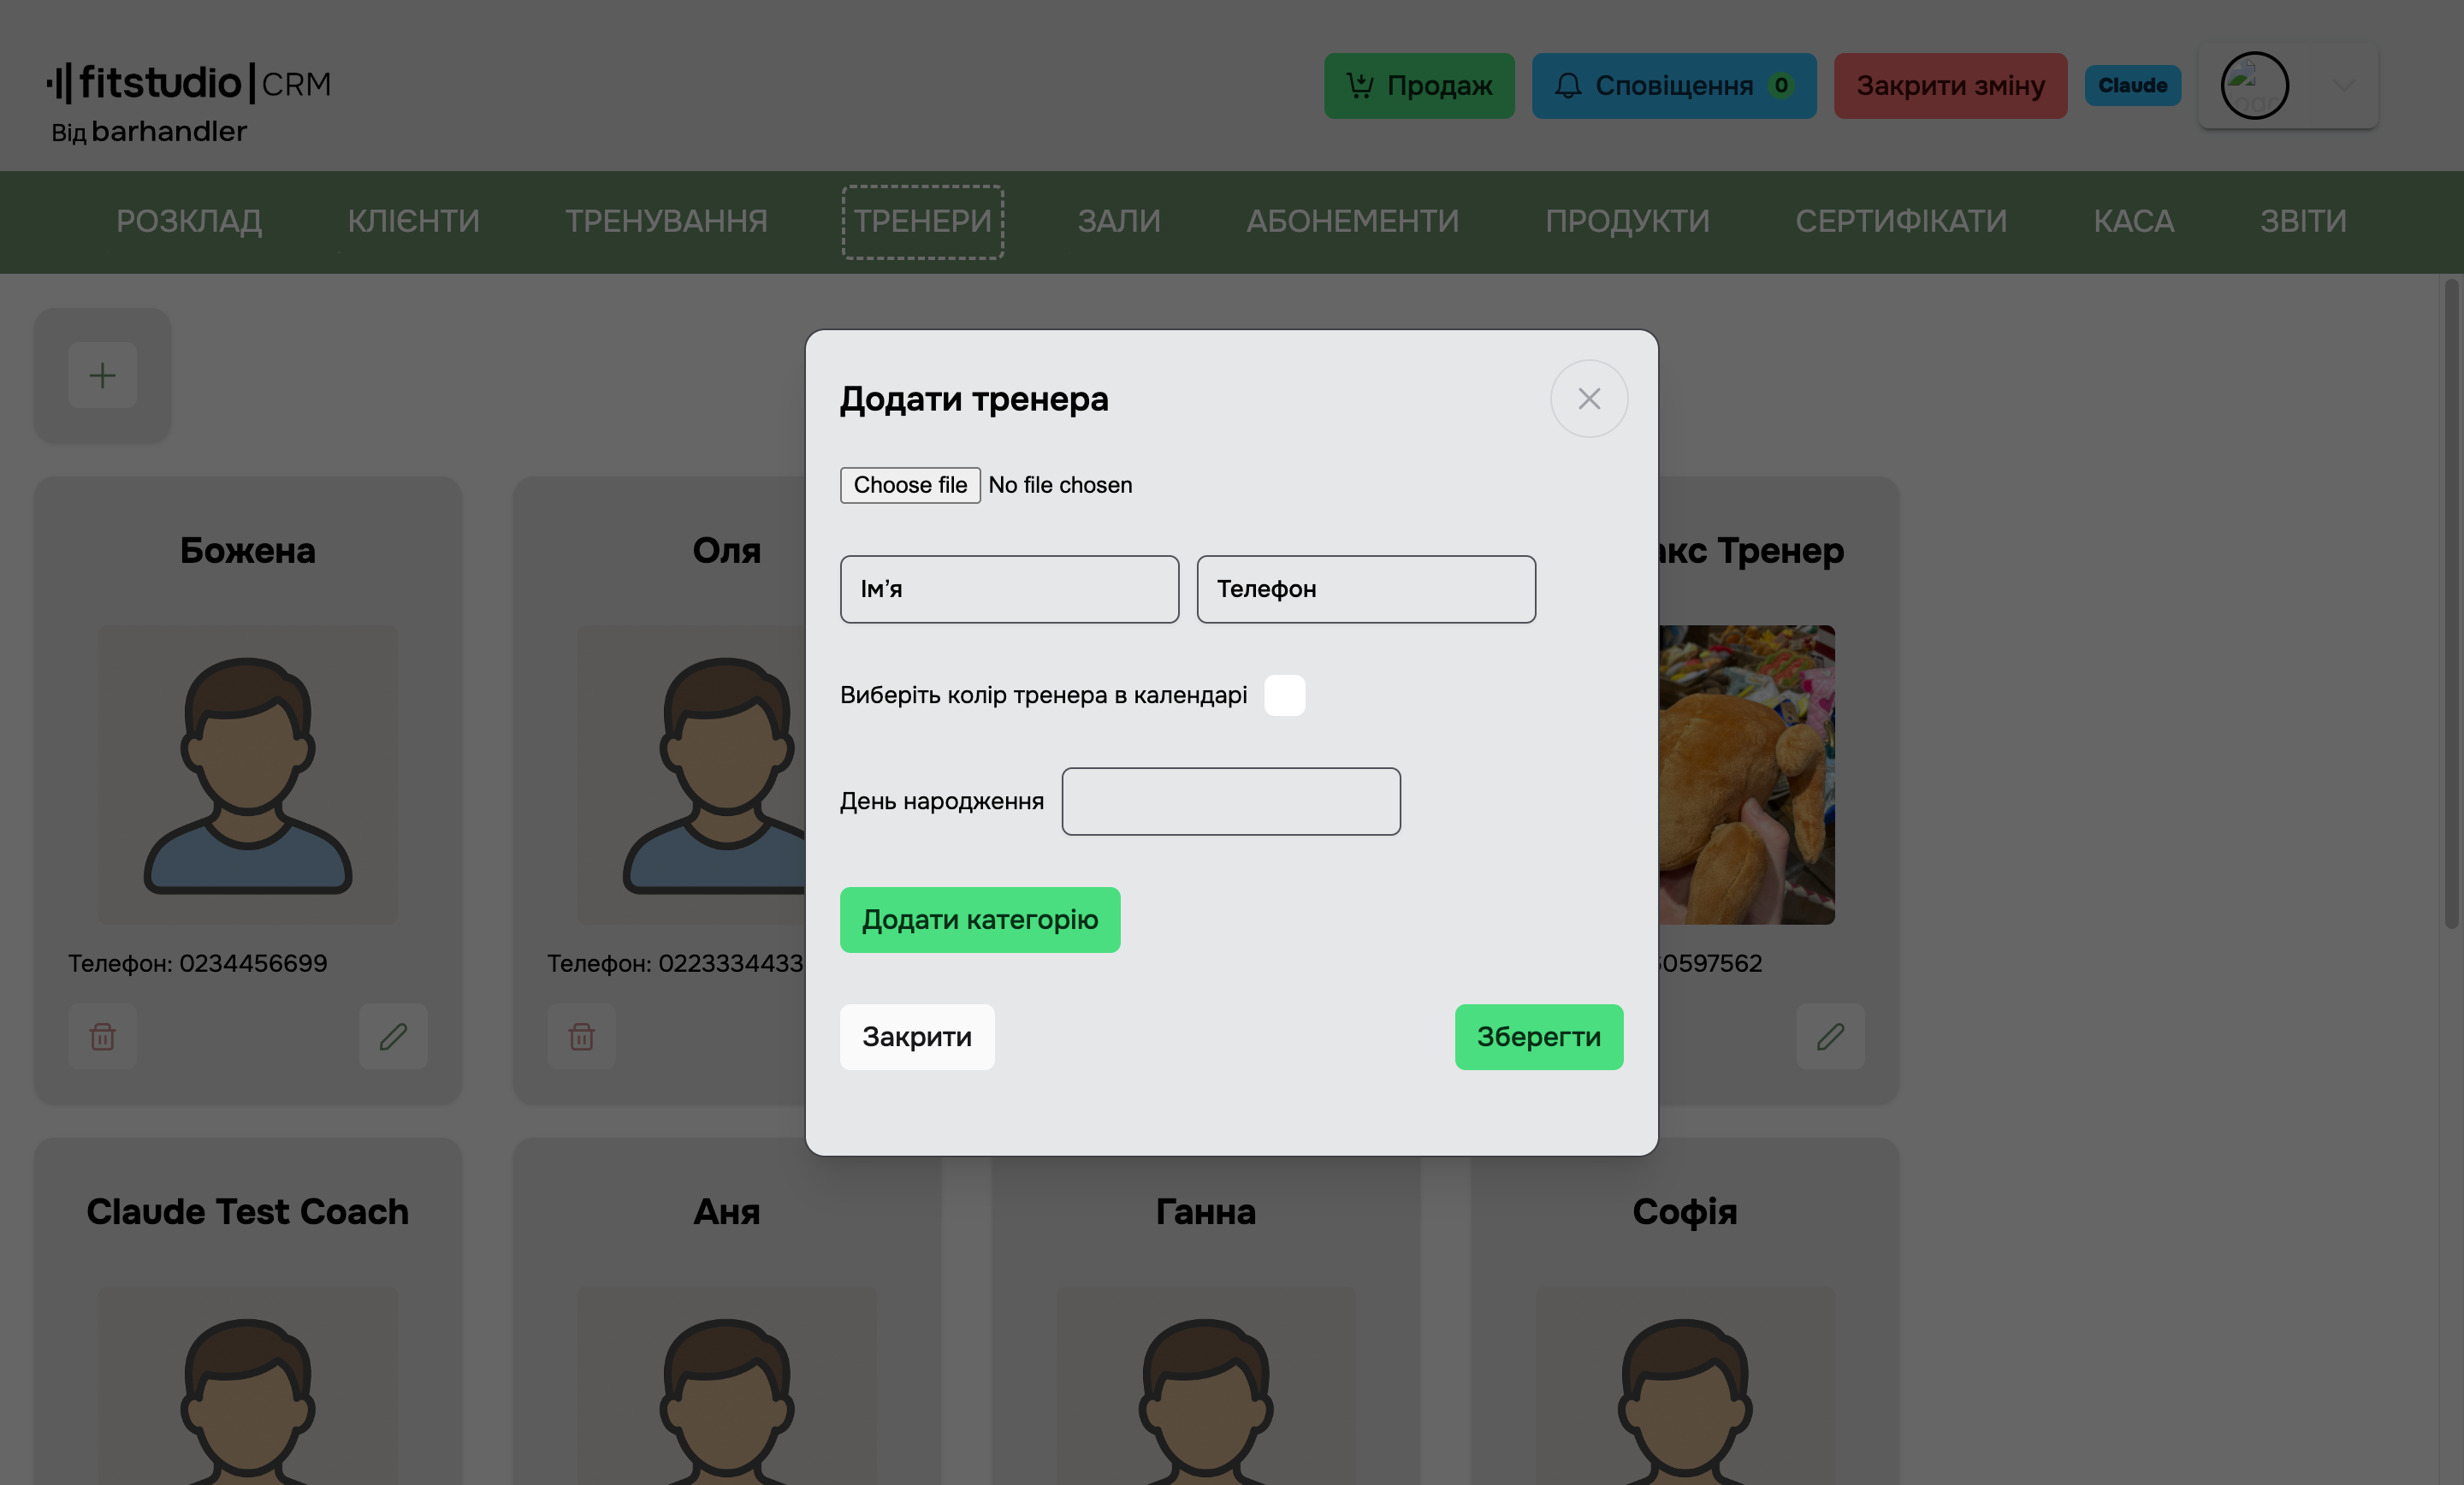
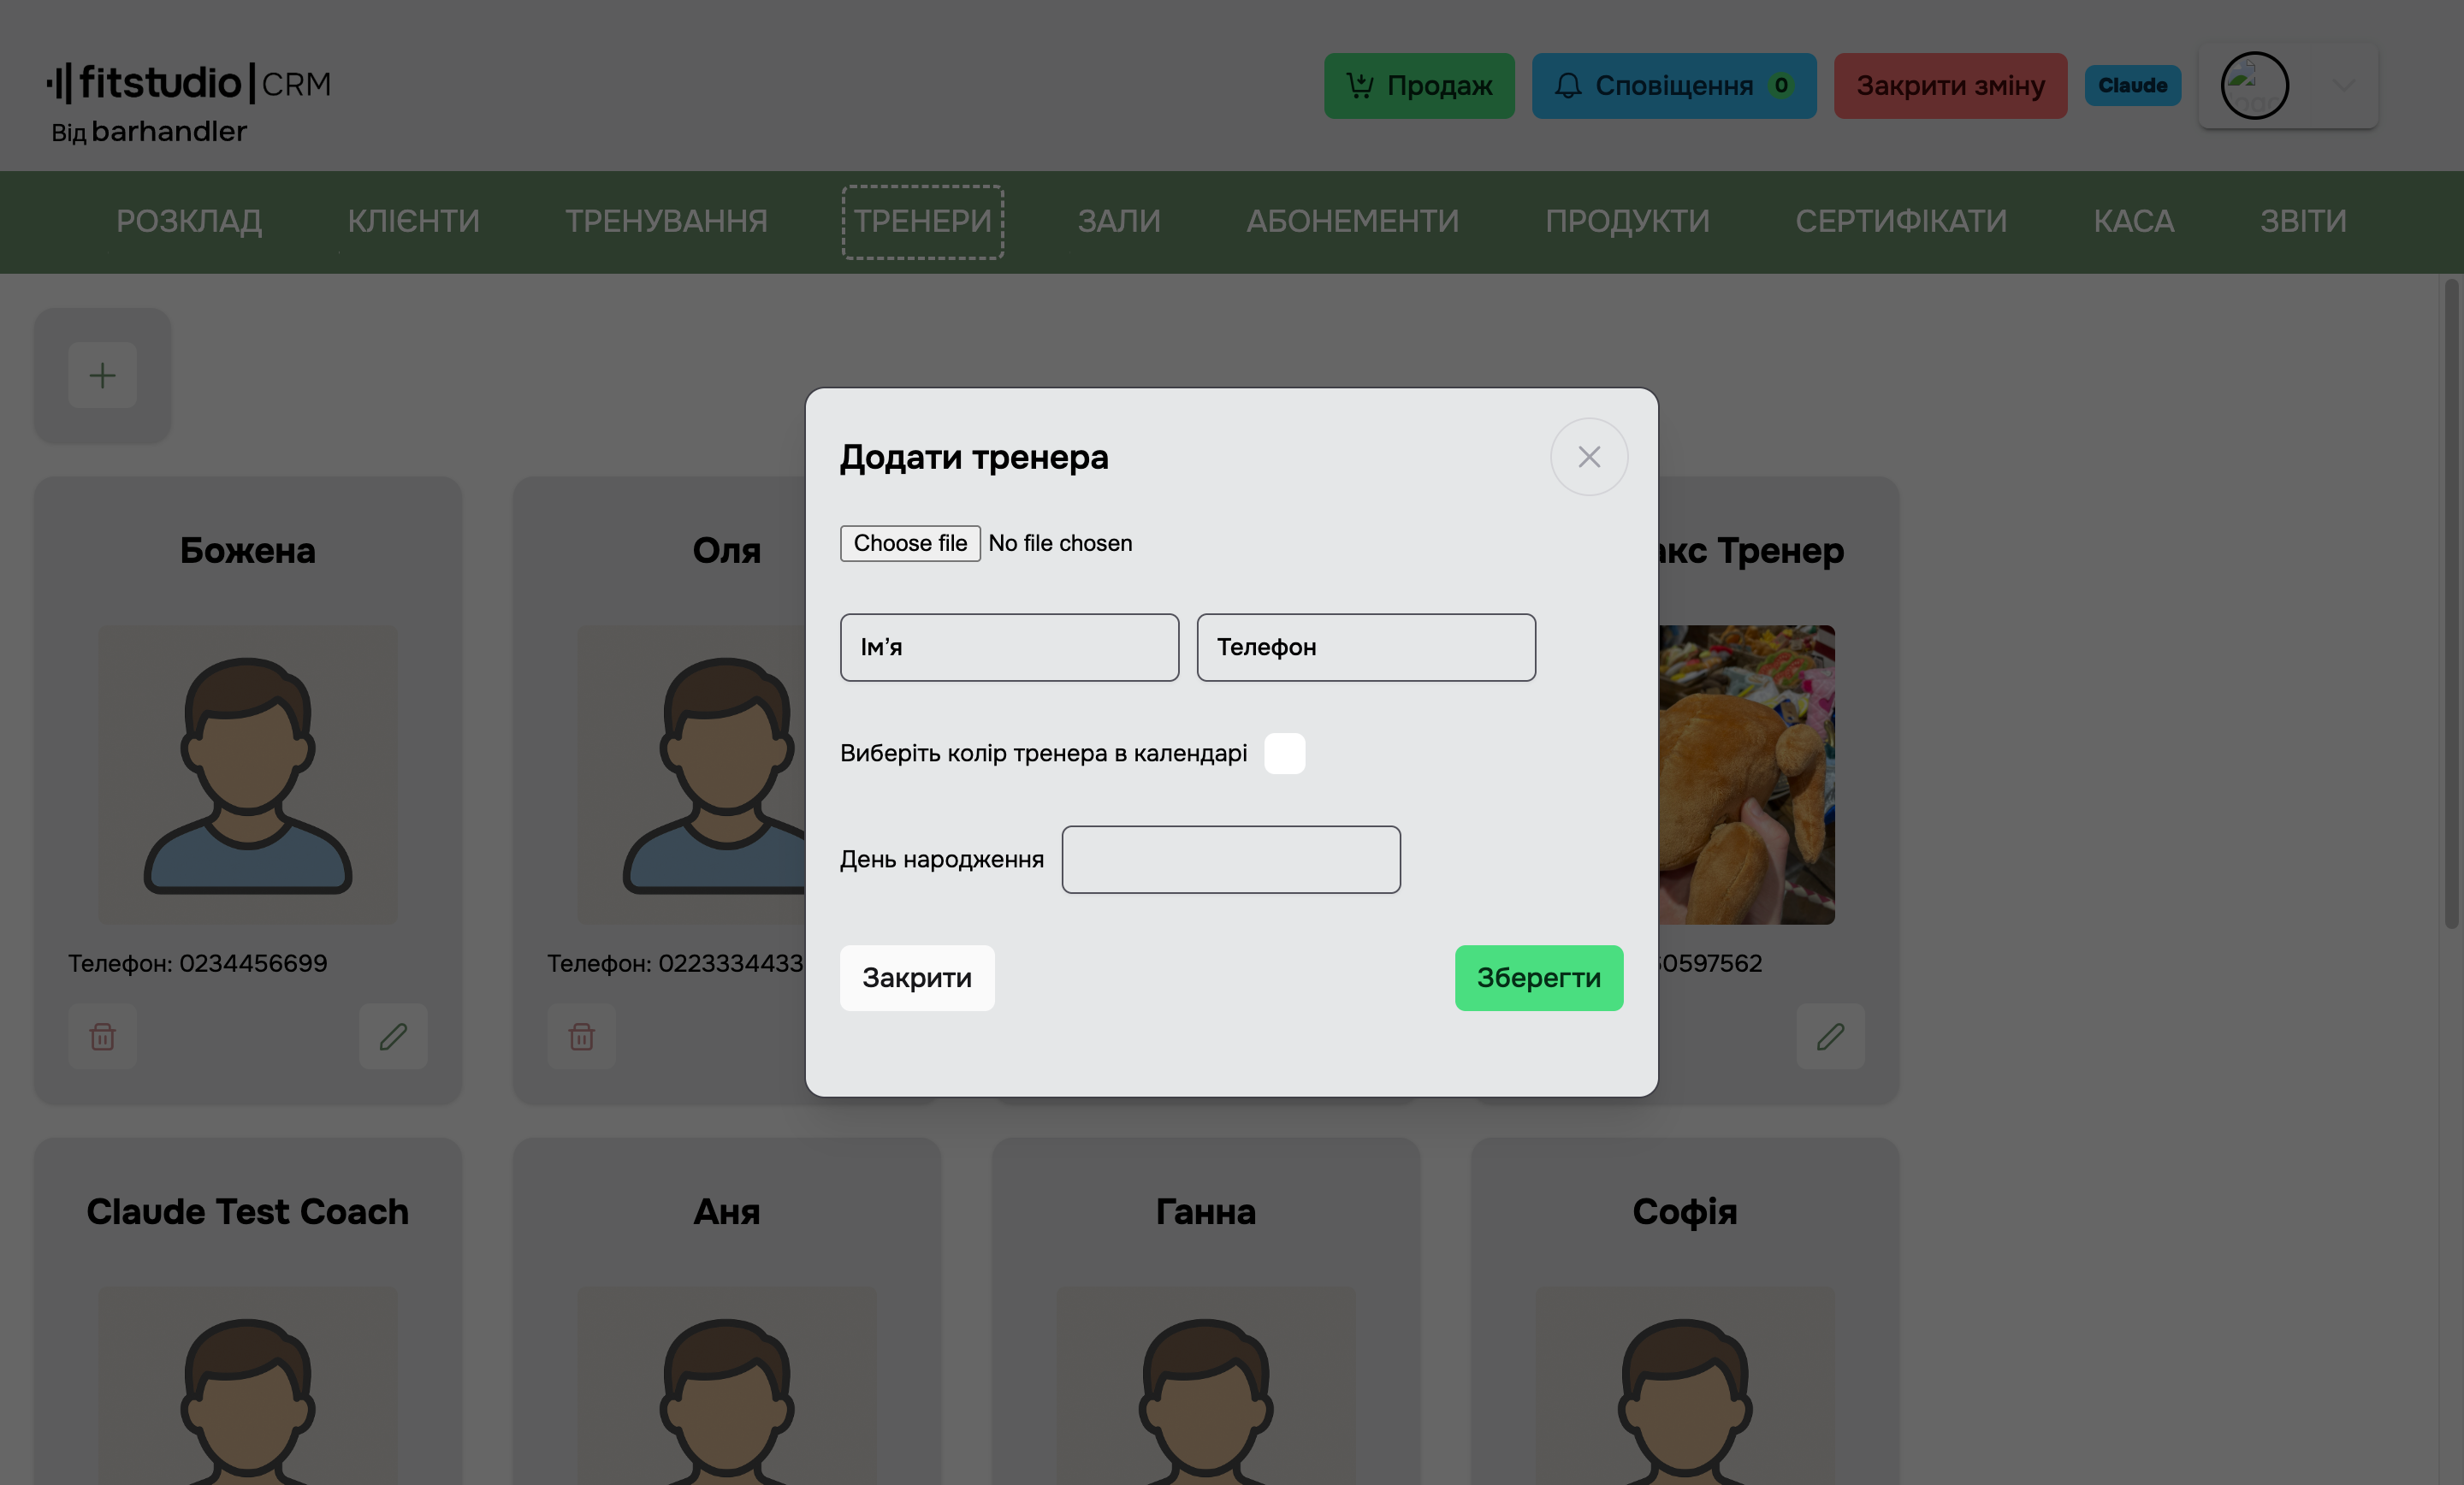
docs(FC-336): align coach/category docs with current code
- coaches.md: drop "Додати категорію" + per-coach rate section; coach
  card no longer has any salary fields. Refresh coach-2 modal screenshot
  (clean modal without category UI). Remove coaches-3.png (obsolete).
- reports.md: Zarplaty tab — remove false claim that coaches have
  individual rates; correct Експорт block (only TXT export of coach
  salaries — no CSV-for-all-types, no PDF for clients).
- examples.md (5.1, 5.2): rewrite to reflect category-only rate model
  with explicit PerPerson / PerWorkout choice and required category
  assignment on workout.
- processing.md §6.3: rewrite coach salary calc — derived solely from
  workout category, no per-coach overrides; clarify PerPerson uses
  visited + unvisited-debt clients, with min/capacity guards.
- setup.md §4.8: redirect to Mobile app tab (Telegram-bot tab no
  longer exists in admin panel).
- login.md: list all 7 admin panel tabs via anchors into settings.md.
- telegram-bot.md: stub page that redirects to Mobile app section
  (kept to avoid breaking old bookmarks).

Changed region(s): [[0.3125, 0.2177, 0.6875, 0.7776]]

diff --git a/login/telegram-bot.md b/login/telegram-bot.md
@@ -2,28 +2,12 @@
 
 [Повернутися на головну](/)
 
-# 1.3.2.4 Телеграм-бот
+# Телеграм-бот / Мобільний додаток
 
-> Вкладка **Телеграм-бот** містить:
+> ⚠️ **Сторінку залишено для зворотної сумісності посилань.**  
+> Окремої вкладки **Телеграм-бот** в Адмін-панелі більше **немає** — функціонал клієнтського додатку (QR-код для встановлення, лічильники зареєстрованих клієнтів/тренерів, масова розсилка повідомлень) переїхав у вкладку **Мобільний додаток**.
 
-![](../_media/send-telegram-messages.png ':no-zoom')
-
-- **Посилання на Телеграм-бот**
-- **QR-код для переходу у Телеграм-бот**
-- **Кнопка "Завантажити QR-код"** — при натисканні генерується PDF-документ із QR-кодом для швидкого переходу у бот
-- **Кнопка "Завантажити баннер"** — при натисканні генерується PDF-документ із QR-кодом для швидкого переходу у бот у вигляді баннера
-- **Блок Зареєстровано клієнтів:** - Кіль-сть клієнтів які зареєструвалису у Телеграм боті
-- **Блок Зареєстровано тренерів:** - Кіль-сть тренерів які зареєструвалису у Телеграм боті
-- **Надсилання повідомлення клієнтам**  
-  - Текстове поле приймає будь-які символи  
-  - Кнопка **Надіслати** активується, якщо введено хоча б 1 символ  
-  - Усі клієнти, зареєстровані у боті, отримають повідомлення
-- **Надсилання зображення клієнтам**  
-  - Кнопка **Надіслати** активна, якщо вибрано зображення
-- **Видалення надісланих повідомлень**  
-  - У списку виберіть повідомлення за датою й часом, яке потрібно видалити
-
-![](../_media/remove-telegram-messages.png ':no-zoom')
+➡️ Актуальна документація: [Налаштування → Мобільний додаток](/login/settings#мобільний-додаток).
 
 ---
 

diff --git a/pages/processing.md b/pages/processing.md
@@ -22,17 +22,17 @@
 
 ## 6.3 Підрахунок зарплат тренерів
 
-> Система вибирає всі тренування тренера за поточний період, сортує їх за категоріями та проводить розрахунок залежно від типу ставки.
+> Система вибирає всі тренування тренера за поточний період, групує їх **за категоріями тренувань** (категорія, яку було призначено на самому тренуванні) і проводить розрахунок залежно від типу ставки **цієї категорії**.
 
-- **Ставка "Кількість людей на тренуванні"**  
-  Підраховується кількість клієнтів, які фактично відвідали всі тренування у категорії.  
-  Далі ця кількість множиться на ставку категорії, вказану на сторінці категорії.  
-  Якщо у тренера задана кастомна ставка, саме вона використовується для розрахунку.
+> ℹ️ **Усі параметри розрахунку (тип ставки + базова ставка) визначаються виключно на категорії тренування** ([Звіти → Категорії](/menu/reports#_383-Категорії)). Жодних індивідуальних ставок на тренера або на конкретне тренування немає.
 
-- **Ставка "Кількість тренувань"**  
-  Підраховується кількість проведених тренувань у категорії.  
-  Далі ця кількість множиться на ставку категорії.  
-  Якщо у тренера задана кастомна ставка, вона використовується замість глобальної.
+- **Тип ставки `PerPerson` ("За людину")**
+  Для кожного тренування у категорії підраховується кількість клієнтів, які фактично відвідали (статус `Visited`) + клієнтів зі статусом `Unvisited`, з яких списано тренування з абонементу (відмінено пізно). Якщо менше за **Мінімальну кількість клієнтів** ([Налаштування → Функції](/login/settings#функції)) — використовується мінімум. Якщо більше за `workoutCapacity` і увімкнено відповідний тогл — обмежується capacity. Сума по тренуваннях × `baseRate` категорії = зарплата за цю категорію.
+
+- **Тип ставки `PerWorkout` ("За тренування")**
+  Підраховується кількість **проведених** тренувань у категорії (тренування з хоча б одним клієнтом у статусі `Visited`). Кількість тренувань × `baseRate` категорії = зарплата за цю категорію.
+
+> Сумарно зарплата = сума по всіх категоріях, у яких у тренера були тренування за період.
 
 ---
 

diff --git a/menu/reports.md b/menu/reports.md
@@ -38,11 +38,6 @@
   - **Потребує уточнення** (FC-110) — список клієнтів у яких **не заповнено поле телефону**. Тільки телефон — інші поля (email, дата народження) у фільтрі не враховуються. Зручно для контролю якості бази, бо без телефону клієнт не отримуватиме Telegram-нагадування і пуш-сповіщення з мобільного додатку.
 - **Графік** — кнопка переключення між таблицею і візуалізацією (де доречно).
 
-**Експорт:**
-
-- **CSV** — для всіх типів звіту.
-- **PDF** — для типу **Клієнти**.
-
 ---
 
 ## 3.8.2 Зміни
@@ -113,13 +108,14 @@
 **Колонки:**
 
 - **Тренер** — імʼя тренера.
-- **Тип ставки** — вказаний у профілі тренера (категорія може перевизначити це для конкретного тренування).
-- **Динамічні колонки** — система групує всі тренування періоду за **категоріями**, і кожна категорія стає окремою колонкою. Значення в колонці залежить від типу ставки категорії:
-  - **За людину** — `сумарна кількість клієнтів × baseRate`.
-  - **За тренування** — `кількість проведених тренувань × baseRate`.
+- **Динамічні колонки** — система групує всі тренування періоду за **категоріями**, і кожна категорія стає окремою колонкою. Значення і тип розрахунку беруться **з категорії тренування** ([Категорії](#_383-Категорії)):
+  - **За людину** (`PerPerson`) — `сумарна кількість клієнтів × baseRate`.
+  - **За тренування** (`PerWorkout`) — `кількість проведених тренувань × baseRate`.
 - **Всього** — сума всіх категорій для тренера.
 
 > Внизу таблиці — рядок з **загальною сумою по всіх тренерах**.
+
+**Експорт:** кнопка експорту зарплат у **TXT-файл** (текстовий звіт з розбивкою по тренерах та категоріях). Інших форматів експорту немає.
 
 > ℹ️ Розрахунок враховує налаштування **"Враховувати максимальну к-сть людей при підрахунку зарплат"** ([3.8.4.1](#_3841-Налаштування-зарплат)) — якщо клієнтів на тренуванні більше за `workoutCapacity`, зарахується тільки `workoutCapacity`.
 

diff --git a/pages/examples.md b/pages/examples.md
@@ -10,11 +10,13 @@
 
 **Алгоритм дій:**
 
-- Створіть категорію для такого типу тренувань, де вкажіть ставку за **ОДНУ** людину.  
-  ```Наприклад: якщо від персонального тренування для 1 клієнта тренер отримує X грн, а від тренування для 2 клієнтів — Y грн (за двох), то в системі FitStudio CRM ставка у категорії має бути Y/2. Система множить ставку на кількість людей.```
+- Створіть [категорію](/menu/reports#_383-Категорії) для такого типу тренувань. Оберіть **Тип ставки = За людину** (`PerPerson`) і вкажіть **базову ставку** — суму, яку тренер отримує **за одного клієнта**.
+  ```Наприклад: якщо від персонального тренування для 1 клієнта тренер отримує X грн, а від тренування для 2 клієнтів — Y грн (за двох), то базова ставка категорії = Y/2. Система помножить ставку на фактичну кількість клієнтів на тренуванні.```
 - Додайте абонемент, яким буде оплачуватися тренування (разовий або абонемент), тип абонементу має бути **Персональний**.
-- Створіть тренування з типом **Персональне**. Заповніть усі поля, у полі **Максимальна кількість людей на тренуванні** вкажіть від 2 і більше. У цьому випадку поле для вибору клієнта стає необовʼязковим — клієнтів можна буде записати пізніше.
+- Створіть тренування з типом **Персональне** **і обовʼязково призначте йому щойно створену категорію** — саме звідти буде взято ставку при розрахунку зарплати. Заповніть усі поля, у полі **Максимальна кількість людей на тренуванні** вкажіть від 2 і більше. У цьому випадку поле для вибору клієнта стає необовʼязковим — клієнтів можна буде записати пізніше.
 - Запишіть клієнтів на тренування. Абонемент може бути як придбаний раніше, так і куплений під час реєстрації.
+
+> ℹ️ Ставка та тип розрахунку завжди беруться з **категорії тренування**. На картці тренера індивідуальної ставки за категорію більше не задається.
 
 ---
 
@@ -24,10 +26,10 @@
 
 **Алгоритм дій:**
 
-- Створіть категорію для майстер-класу, де вкажіть суму, яку тренер отримує за одного клієнта.
+- Створіть [категорію](/menu/reports#_383-Категорії) для майстер-класу. **Тип ставки**: оберіть `PerPerson` (за людину) — якщо тренер отримує суму за кожного клієнта; або `PerWorkout` (за тренування) — якщо є фіксована винагорода за сам факт проведення івенту незалежно від кількості учасників.
 - За потреби створіть тренера.
-- Створіть абонемент, яким буде оплачуватись майстер-клас.
-- Створіть тренування з типом **Персональне** та вкажіть у полі **Максимальна кількість людей на тренуванні** максимальну кількість учасників.
+- Створіть абонемент (тип **Персональний**), яким буде оплачуватись майстер-клас. Якщо тип ставки `PerWorkout`, **прив'язка категорії до конкретного абонементу обовʼязкова**.
+- Створіть тренування з типом **Персональне**, призначте йому створену категорію, та вкажіть у полі **Максимальна кількість людей на тренуванні** максимальну кількість учасників.
 - Запишіть клієнтів на майстер-клас.
 - Абонементи можна продавати заздалегідь. При покупці такий абонемент буде неактивним, але його можна активувати під час реєстрації клієнта й використати для оплати.
 

diff --git a/login/login.md b/login/login.md
@@ -64,12 +64,15 @@
 
 ### 1.3.3 Адмін-панель
 
-> При натисканні на пункт **Адмін-панель** відкривається модальне вікно з чотирма вкладками:
+> При натисканні на пункт **Адмін-панель** відкривається модальне вікно з вкладками:
 
-- [1.3.2.1 Користувачі](/login/users)
-- [1.3.2.2 Налаштування](/login/settings)
-- [1.3.2.3 Інформація](/login/info)
-- [1.3.2.4 Телеграм-бот](/login/telegram-bot)
+- [Користувачі](/login/users)
+- [Налаштування → Налаштування](/login/settings#налаштування)
+- [Налаштування → Функції](/login/settings#функції)
+- [Налаштування → ПРРО](/login/settings#прро)
+- [Налаштування → Імпорт](/login/settings#імпорт)
+- [Налаштування → Інформація](/login/settings#інформація)
+- [Налаштування → Мобільний додаток](/login/settings#мобільний-додаток)
 
 ---
 

diff --git a/menu/coaches.md b/menu/coaches.md
@@ -35,13 +35,8 @@
 - Колір-пікер для вибору кольору відображення тренера у календарі (обовʼязкове поле)
 - **День народження** — date picker, опційне.
 
-![](../_media/coaches-3.png ':size=100x110')
-
-- **Кнопка «Додати категорію»** — додає рядок з випадаючим списком категорій студії + полем **Ставка** (грн). Заповнення ставки означає **індивідуальну ставку** саме для цієї категорії; якщо ставку залишити рівною значенню з категорії — застосовується базове значення зі сторінки [Звіти → Категорії](/menu/reports#_383-Категорії).
-
-> ℹ️ **Як вирішується яка ставка і який тип розрахунку застосувати:**
-> 1. **Тип розрахунку** (`PerPerson` — за кількістю клієнтів / `PerWorkout` — за кількістю тренувань) визначається на сторінці [Звіти → Категорії](/menu/reports#_383-Категорії) для конкретної категорії; на картці тренера типу ставки **немає**.
-> 2. **Значення ставки** береться з картки тренера для цієї категорії, якщо задано. Інакше — базова ставка з категорії.
+> ℹ️ **Розрахунок зарплати тренера:**
+> Усі параметри зарплати (ставка, тип розрахунку `PerPerson` / `PerWorkout`) визначаються **на категорії тренування** ([Звіти → Категорії](/menu/reports#_383-Категорії)), а не на картці тренера. На картці тренера немає ні вибору категорій, ні переозначення ставки.
 >
 > Детальніше: [Інформація про обробку візитів, списання абонементів та нагадування](/pages/processing)
 

diff --git a/pages/setup.md b/pages/setup.md
@@ -131,9 +131,11 @@
 
 ## 4.8 Підготовка до роботи
 
-> Перейдіть в адмін-панель у вкладку [Телеграм-бот](/login/telegram-bot).  
-> Завантажте QR-код і роздрукуйте його.  
-> Надалі пропонуйте клієнтам користуватися ботом для зручності.
+> Перейдіть в адмін-панель у вкладку [Мобільний додаток](/login/settings#мобільний-додаток).
+> Завантажте QR-код або готовий банер і роздрукуйте.
+> Розмістіть QR у студії, на ресепшені, у роздягальнях. Клієнти, відсканувавши код,
+> встановлять PWA-додаток і зможуть самостійно записуватись на тренування, бачити
+> свої абонементи, отримувати push-сповіщення про заміни тренера тощо.
 
 ---
 